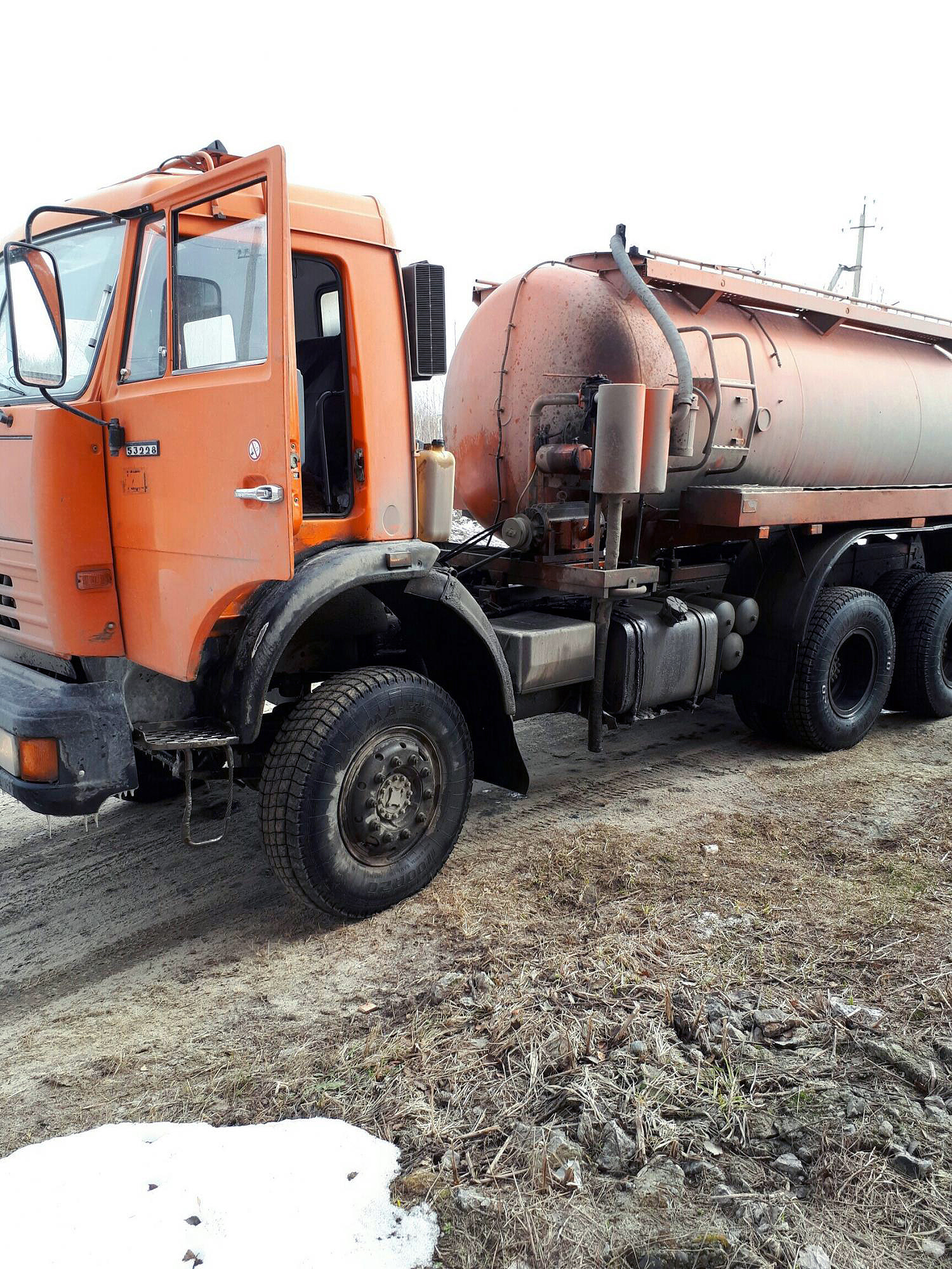
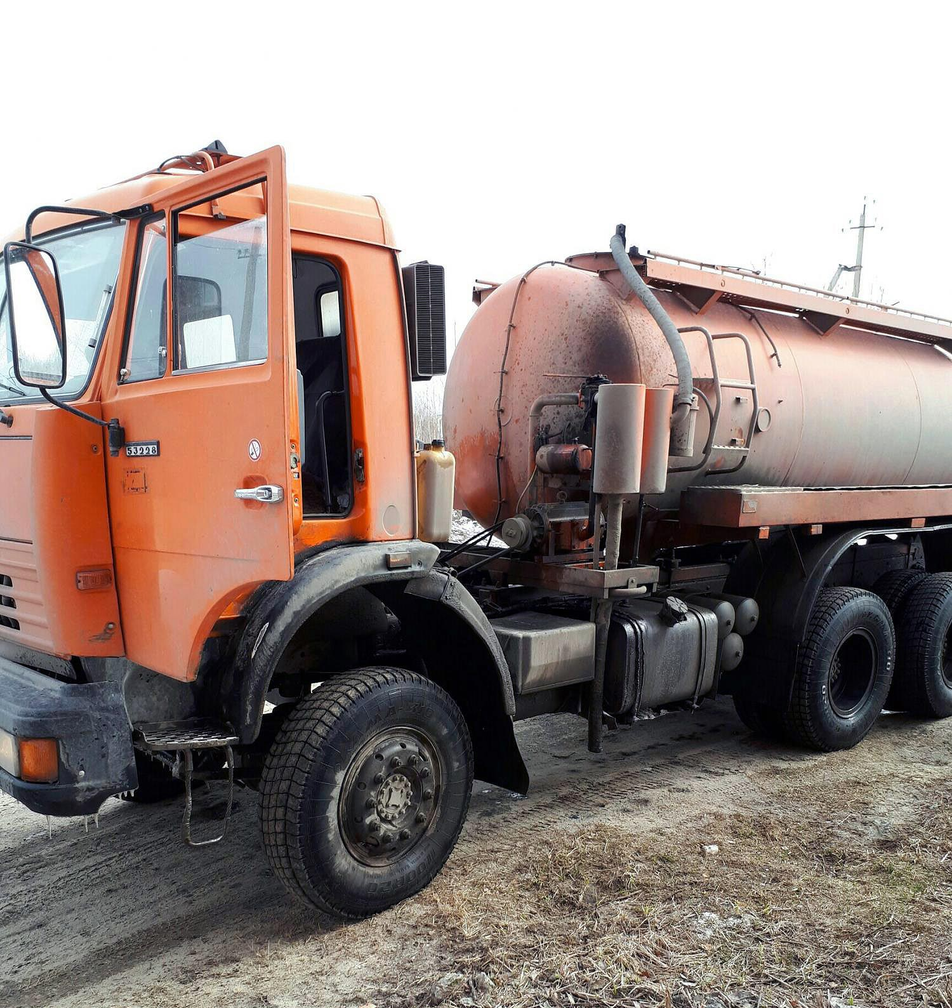
Image optimization

diff --git a/templates/servicesList.html b/templates/servicesList.html
@@ -1,21 +1,22 @@
 <style type="text/css">
 	{% for service in services %}
 		.{{service.nameTranslit}} {
-			background: radial-gradient(ellipse at center, rgba(37,38,40,0.5) 0, rgba(37,38,40,0.9) 100%), url('{{getServiceImgUrl(service, region)}}') 50% 50% / cover no-repeat;
+			background: radial-gradient(ellipse at center, rgba(37,38,40,0.5) 0, rgba(37,38,40,0.9) 100%), url('{{getServiceImgUrl(service, region, 'small')}}') 50% 50% / cover no-repeat;
 		}
 		.{{service.nameTranslit}}:hover {
-			background: radial-gradient(ellipse at center, rgba(37,38,40,0.7) 0, rgba(37,38,40,1) 100%), url('{{getServiceImgUrl(service, region)}}') 50% 50% / cover no-repeat;
+			background: radial-gradient(ellipse at center, rgba(37,38,40,0.7) 0, rgba(37,38,40,1) 100%), url('{{getServiceImgUrl(service, region, 'small')}}') 50% 50% / cover no-repeat;
 			background-position: 50% 50%, 50% {{service.id}}px;
 		}
 	{% endfor %}
 </style>
 <div class="row css-columns-medium-2 css-columns-large-3">
 	{% for service in services %}
-		<a class="card service {{service.nameTranslit}} css-column" href="{{ getLinkForRegionService(serviceId=service.id, regionId=region.childrenIds[0], order = True) if region !=None and region.hasChildren and getLen(region.childrenIds) == 1 else getLinkForRegionService(serviceId=service.id, regionId=region.id if region !=None else None) }}">
+	    {% set serviceHref = getLinkForRegionService(serviceId=service.id, regionId=region.childrenIds[0], order = True) if region !=None and region.hasChildren and getLen(region.childrenIds) == 1 else getLinkForRegionService(serviceId=service.id, regionId=region.id if region !=None else None, order = forceOrder) %}
+		<a class="card service {{service.nameTranslit}} css-column" href="{{ serviceHref }}">
 			<h4>{{service.name}}</h4>
 			<p>{{service.description}}</p>
-			<span class="button" href="{{ getLinkForRegionService(serviceId=service.id, regionId=region.childrenIds[0], order = True) if region !=None and region.hasChildren and getLen(region.childrenIds) == 1 else getLinkForRegionService(serviceId=service.id, regionId=region.id if region !=None else None) }}">
-				{% if region !=None and ((region.hasChildren and getLen(region.childrenIds) == 1) or not region.hasChildren) %}
+			<span class="button" href="{{ serviceHref }}">
+				{% if (region !=None and ((region.hasChildren and getLen(region.childrenIds) == 1) or not region.hasChildren)) or forceOrder == True %}
 					Подробнее
 				{% else %}
 					Уточнить регион

diff --git a/templates/orderService.html b/templates/orderService.html
@@ -2,7 +2,7 @@
 {% block content %}
 	<style type="text/css">
 		.header-{{service.nameTranslit}} {
-			background: linear-gradient(90deg, rgba(240,80,36,0.9), rgba(221,73,35,0.9)), url('{{getServiceImgUrl(service, region)}}') 50% 50% / cover no-repeat;
+			background: linear-gradient(90deg, rgba(240,80,36,0.9), rgba(221,73,35,0.9)), url('{{getServiceImgUrl(service, region, 'small')}}') 50% 50% / cover no-repeat;
 		}
 	</style>
 	<div class="background-header row expanded header-{{service.nameTranslit}}">
@@ -37,6 +37,7 @@
 	<div class="row text-center other-service-header">
 		<h2>{{otherServicesHeader}}</h2>
 	</div>
+	{% set forceOrder = True %}
 	{% include 'servicesList.html' %}
 	{% include 'callUsBottom.html' %}
 {% endblock %}
@@ -69,7 +70,7 @@
 		var callOrderServiceBtn = document.getElementsByClassName('call-order-service');
         callOrderServiceBtn[0].onclick = function() {
             yaCounter42155599.reachGoal('PHONE');
-            ga('send', 'event', 'Phone', 'Click'); 
+            ga('send', 'event', 'Phone', 'Click');
         }
       var map;
       function initMap() {

diff --git a/templates/layout.html b/templates/layout.html
@@ -14,6 +14,7 @@
         {% endblock head %}
     </head>
     <body>
+        {% set forceOrder = False %}
         {% include 'counters.html' %}
         <header class="top-bar">
             <div class="row">
@@ -49,7 +50,7 @@
             var callMobileBtn = document.getElementsByClassName('call-mobile');
             callMobileBtn[0].onclick = function() {
                 yaCounter42155599.reachGoal('PHONE');
-                ga('send', 'event', 'Phone', 'Click'); 
+                ga('send', 'event', 'Phone', 'Click');
             }
         </script>
         {% block js %}

diff --git a/templates/selectRegionForService.html b/templates/selectRegionForService.html
@@ -2,7 +2,7 @@
 {% block content %}
 	<style type="text/css">
 		.header-{{service.nameTranslit}} {
-			background: linear-gradient(90deg, rgba(240,80,36,0.9), rgba(221,73,35,0.9)), url('{{getServiceImgUrl(service, region)}}') 50% 50% / cover no-repeat;
+			background: linear-gradient(90deg, rgba(240,80,36,0.9), rgba(221,73,35,0.9)), url('{{getServiceImgUrl(service, region, 'small')}}') 50% 50% / cover no-repeat;
 		}
 	</style>
 	<div class="background-header row expanded header-{{service.nameTranslit}}">

diff --git a/templates/selectServiceForRegion.html b/templates/selectServiceForRegion.html
@@ -2,7 +2,7 @@
 {% block content %}
 	<style type="text/css">
 		.header-no-service {
-			background: linear-gradient(90deg, rgba(240,80,36,0.9), rgba(221,73,35,0.9)), url('{{getServiceImgUrl(services[0], region)}}') 50% 50% / cover no-repeat;
+			background: linear-gradient(90deg, rgba(240,80,36,0.9), rgba(221,73,35,0.9)), url('{{getServiceImgUrl(services[0], region, 'small')}}') 50% 50% / cover no-repeat;
 		}
 	</style>
 	<div class="background-header row expanded header-no-service">

diff --git a/main.py b/main.py
@@ -73,12 +73,15 @@ def getRegionByPathAndParentId(path, parentId):
         parentId = region['id']
     return region
 
-def getServiceImgUrl(service, region):
+def getServiceImgUrl(service, region, size = None):
     imgNumber = db.getServiceRandomImgNumber(service, region['id'])
     if imgNumber == None:
         service = db.getServiceById(5)
         imgNumber = db.getServiceRandomImgNumber(service, region['id'])
-    return getStaticPath('img/' + service['nameTranslit'] + '/' + service['nameTranslit'] + '-' + str(imgNumber) + '.jpg')
+    sizeStr = ''
+    if size != None:
+        sizeStr = '-' + size
+    return getStaticPath('img/' + service['nameTranslit'] + '/' + service['nameTranslit'] + '-' + str(imgNumber) + sizeStr + '.jpg')
 
 def replaceDataInContent(content, region, service):
     result = []
@@ -277,7 +280,6 @@ def GoogleVerification(subdomain):
     if mainRegion == None:
         abort(404)
     return 'google-site-verification: google450d69197dedc081.html'
-
 
 # Error handling
 
